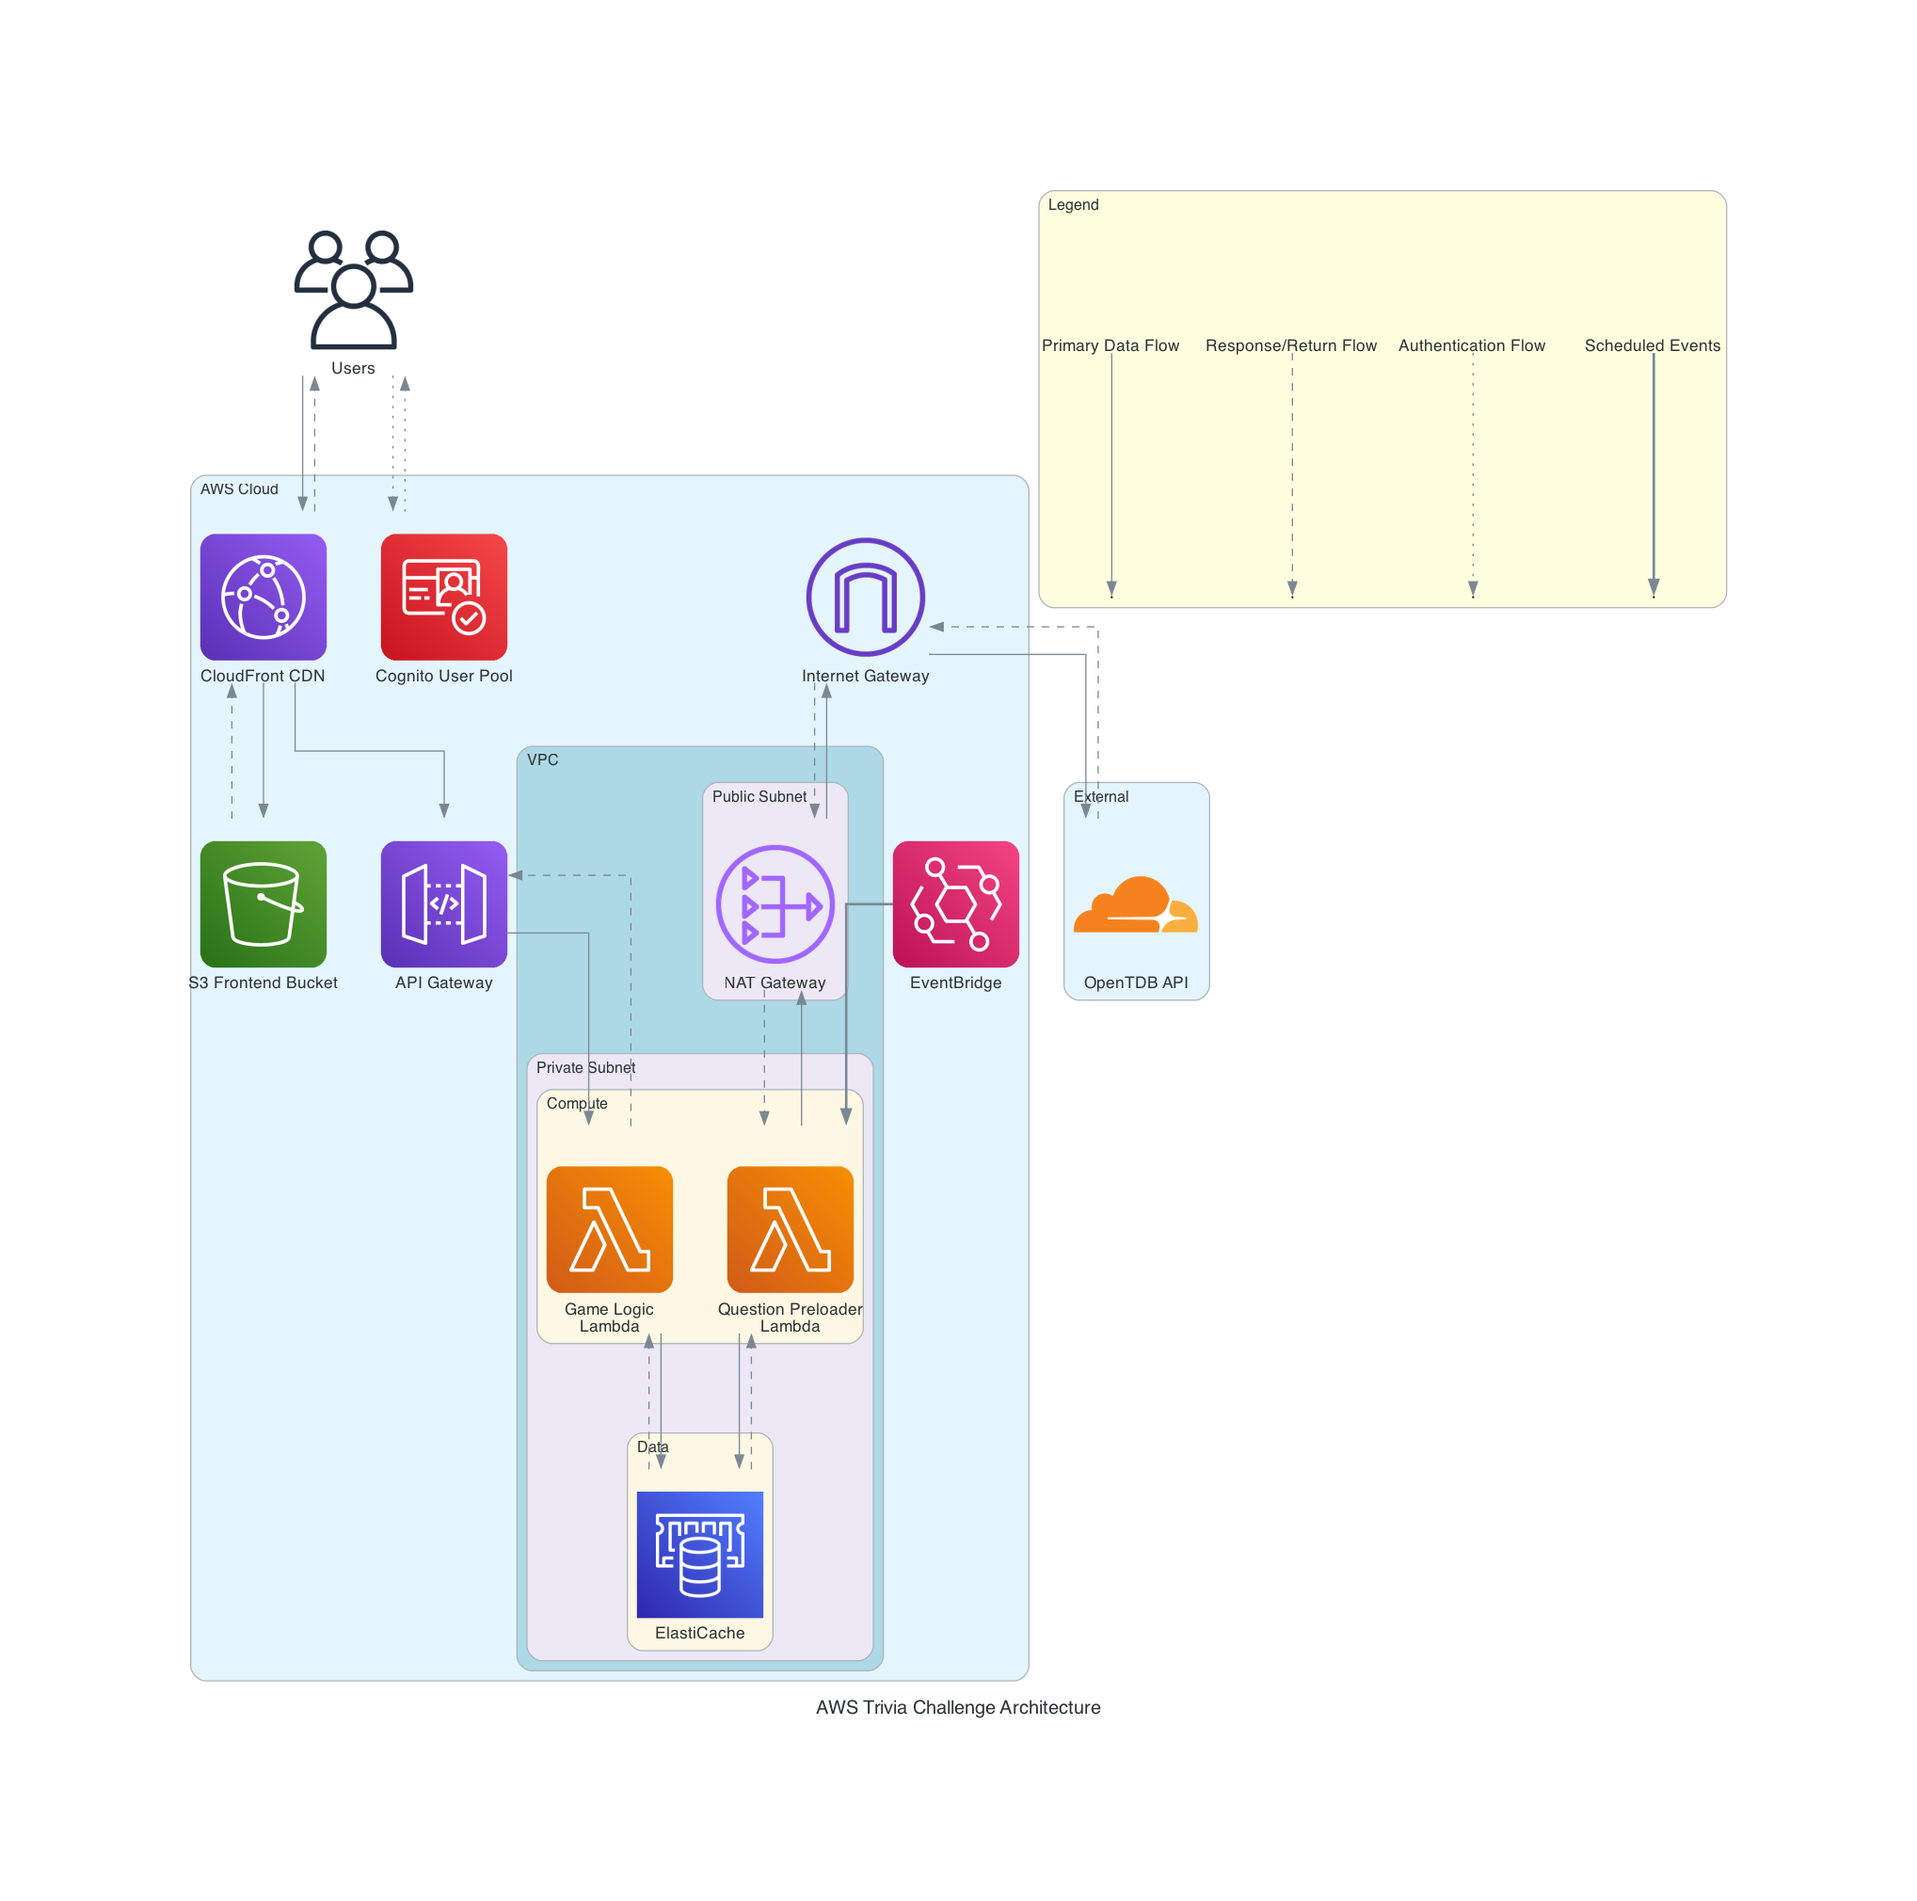
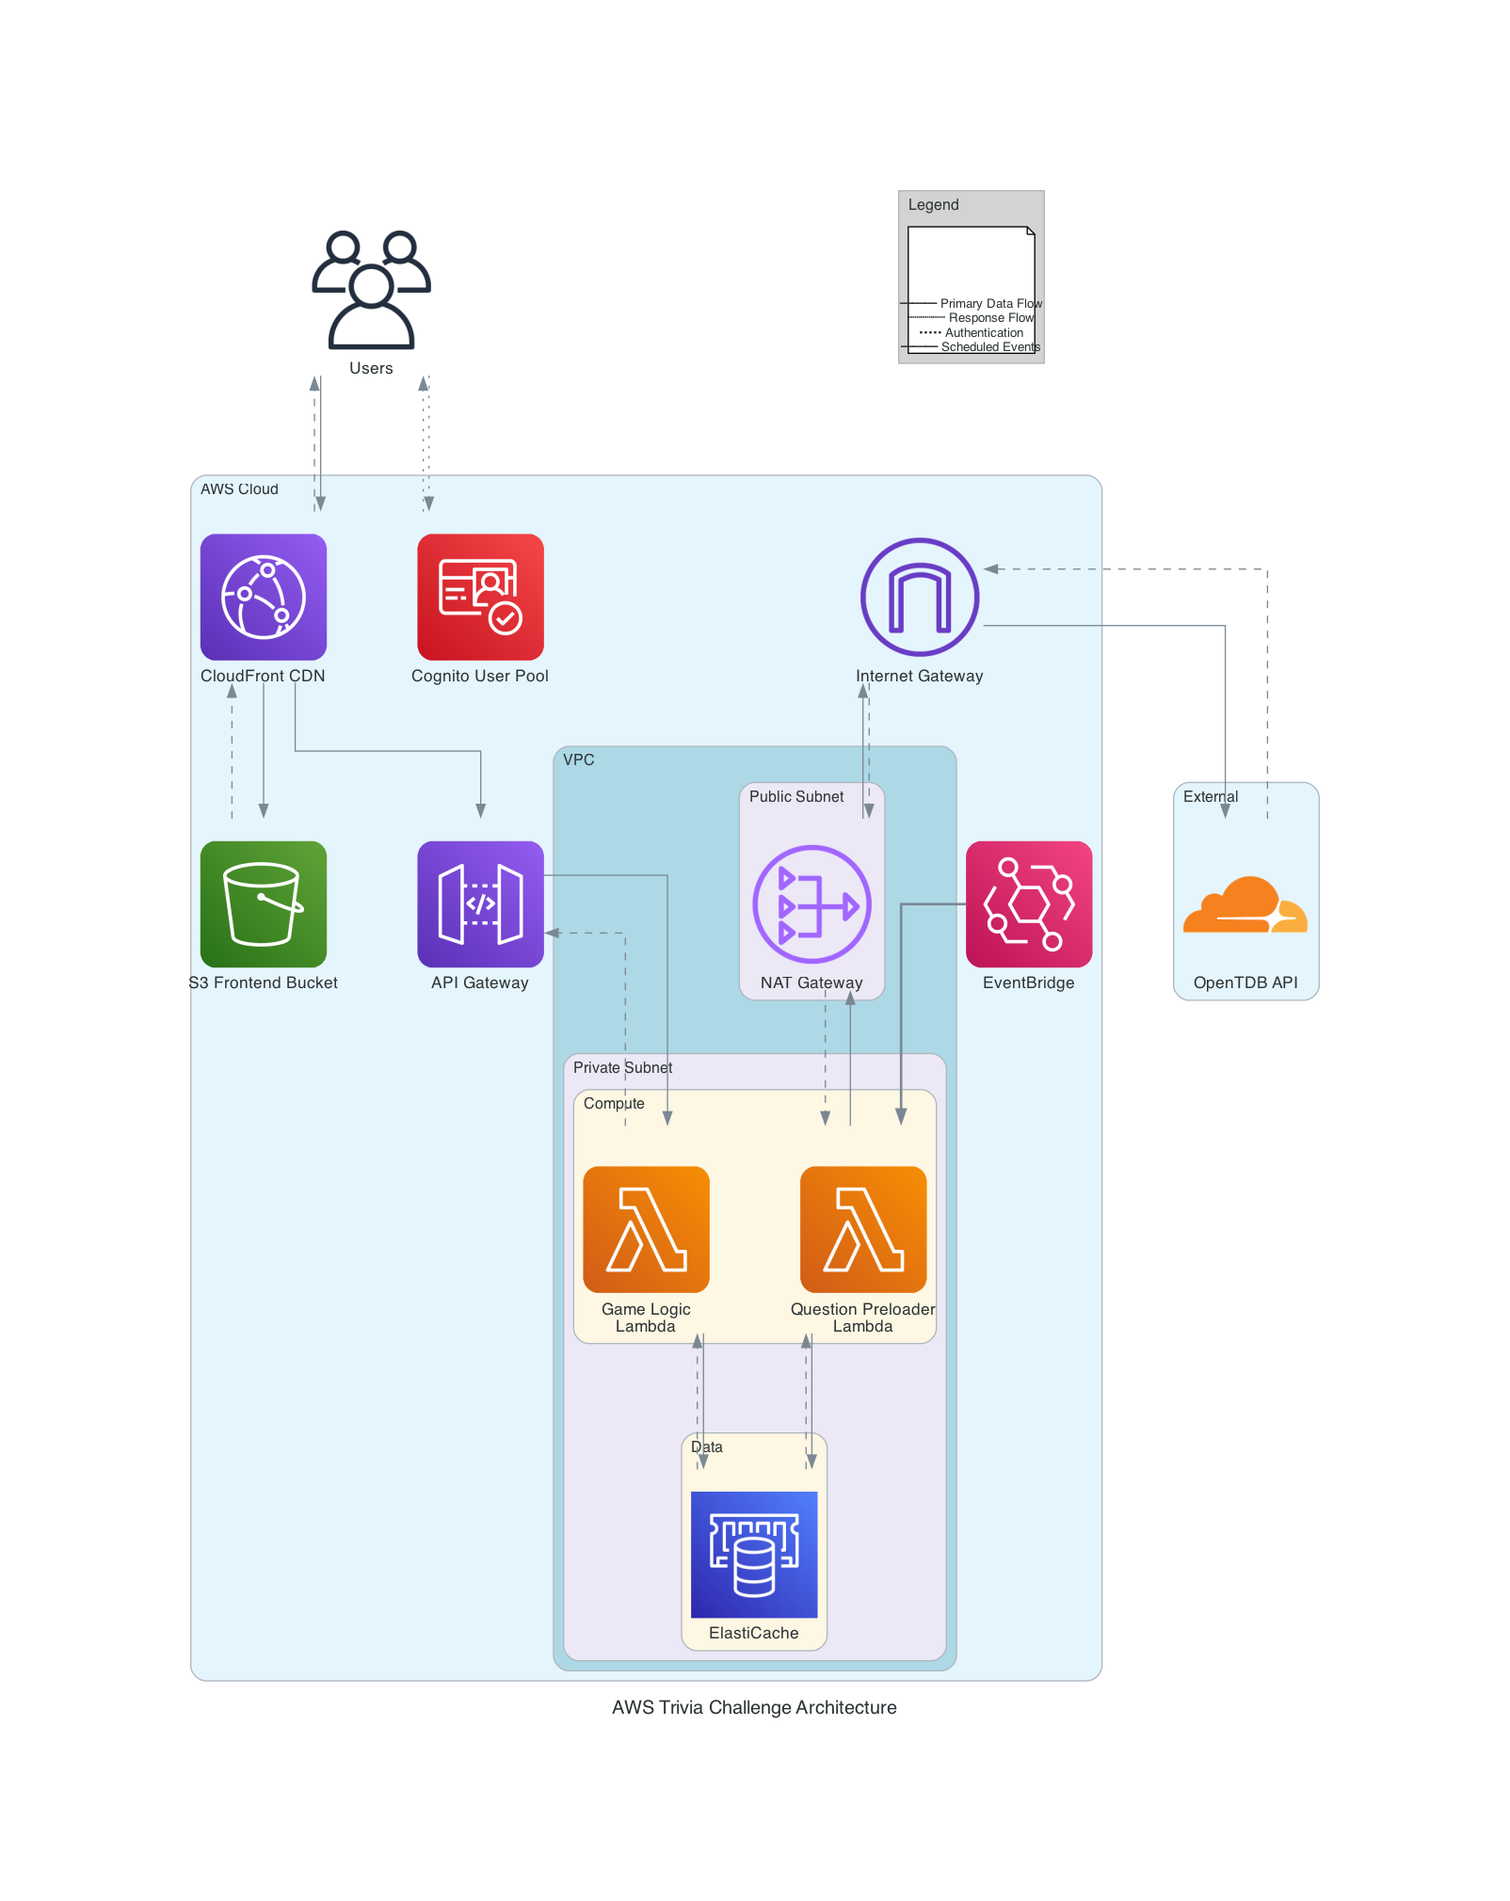
Beautify legend: clean design positioned at bottom of diagram

diff --git a/architecture/architecture_diagram.py b/architecture/architecture_diagram.py
@@ -16,7 +16,7 @@ from diagrams.aws.integration import Eventbridge
 from diagrams.onprem.client import Users
 from diagrams.saas.cdn import Cloudflare
 
-with Diagram("AWS Trivia Challenge Architecture", show=False, direction="TB", graph_attr={"rankdir": "TB", "ranksep": "1.5"}, edge_attr={"fontsize": "16", "labeldistance": "0.3", "labelangle": "0"}):
+with Diagram("AWS Trivia Challenge Architecture", show=False, direction="TB", graph_attr={"rankdir": "TB", "ranksep": "1.5", "nodesep": "1.0"}, edge_attr={"fontsize": "16", "labeldistance": "0.3", "labelangle": "0"}):
     users = Users("Users")
     
     with Cluster("AWS Cloud"):
@@ -88,17 +88,10 @@ with Diagram("AWS Trivia Challenge Architecture", show=False, direction="TB", gr
     igw >> Edge(style="dashed") >> nat
     nat >> Edge(style="dashed") >> lambda_preloader
     
-    # Legend (using invisible nodes for positioning)
-    with Cluster("Legend", graph_attr={"style": "rounded", "bgcolor": "lightyellow"}):
+    # Clean legend at bottom
+    with Cluster("Legend", graph_attr={"rank": "sink", "style": "filled", "fillcolor": "lightgray", "fontsize": "12"}):
         from diagrams import Node
-        legend1 = Node("Primary Data Flow", shape="plaintext")
-        legend2 = Node("Response/Return Flow", shape="plaintext")
-        legend3 = Node("Authentication Flow", shape="plaintext")
-        legend4 = Node("Scheduled Events", shape="plaintext")
-        
-        # Legend arrows
-        legend1 >> Edge(label="") >> Node("", shape="point", width="0")
-        legend2 >> Edge(style="dashed", label="") >> Node("", shape="point", width="0")
-        legend3 >> Edge(style="dotted", label="") >> Node("", shape="point", width="0")
-        legend4 >> Edge(style="bold", label="") >> Node("", shape="point", width="0")
+        # Create simple text nodes for legend
+        Node("━━━ Primary Data Flow\n┅┅┅ Response Flow\n••••• Authentication\n━━━ Scheduled Events", 
+             shape="note", style="filled", fillcolor="white", fontsize="10")
     
